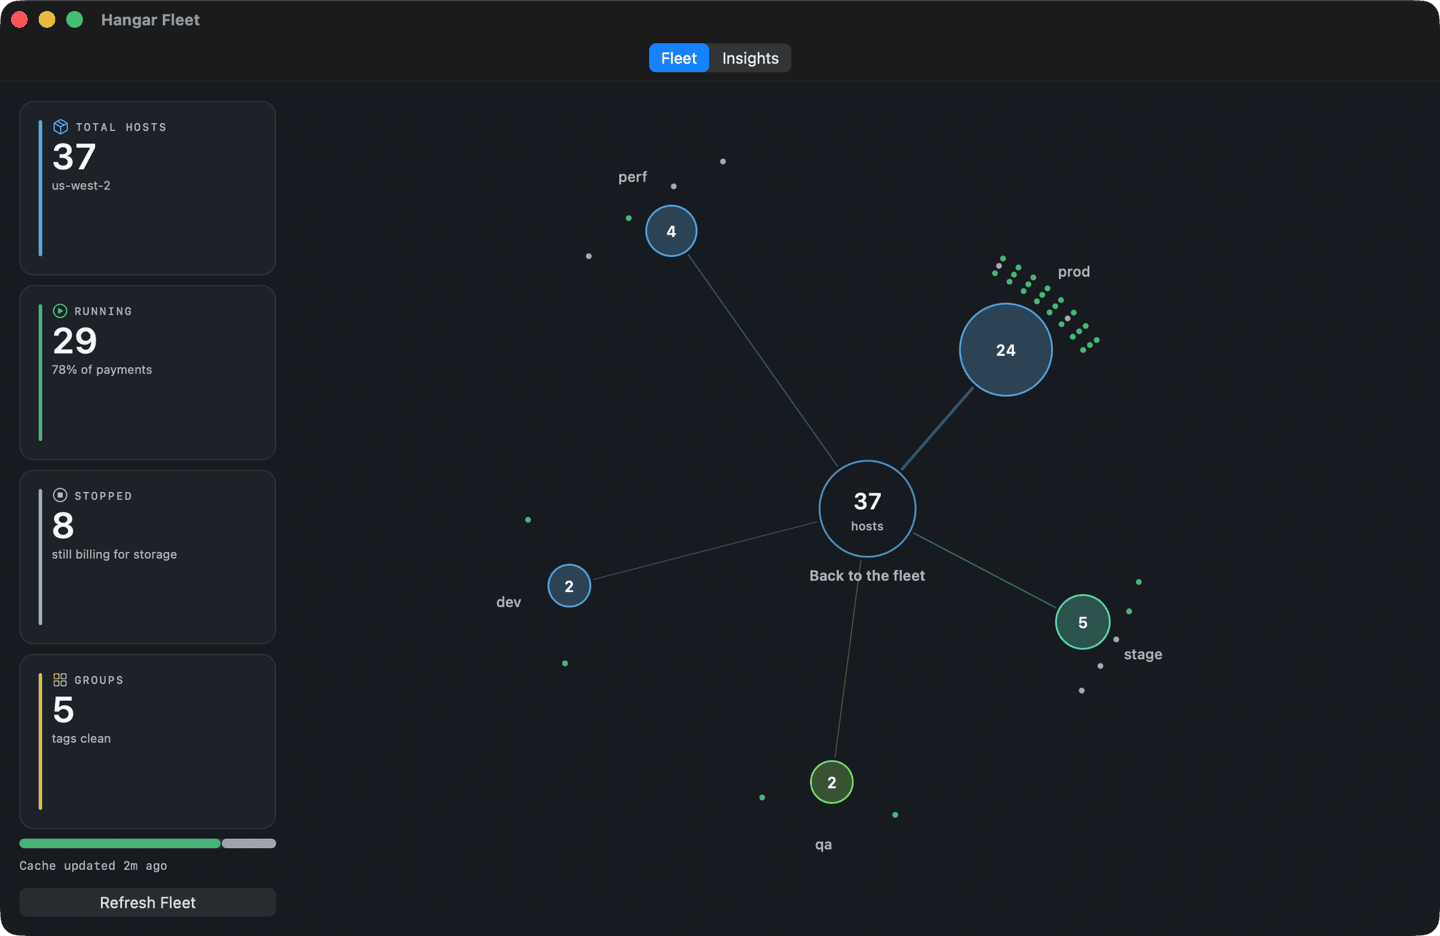
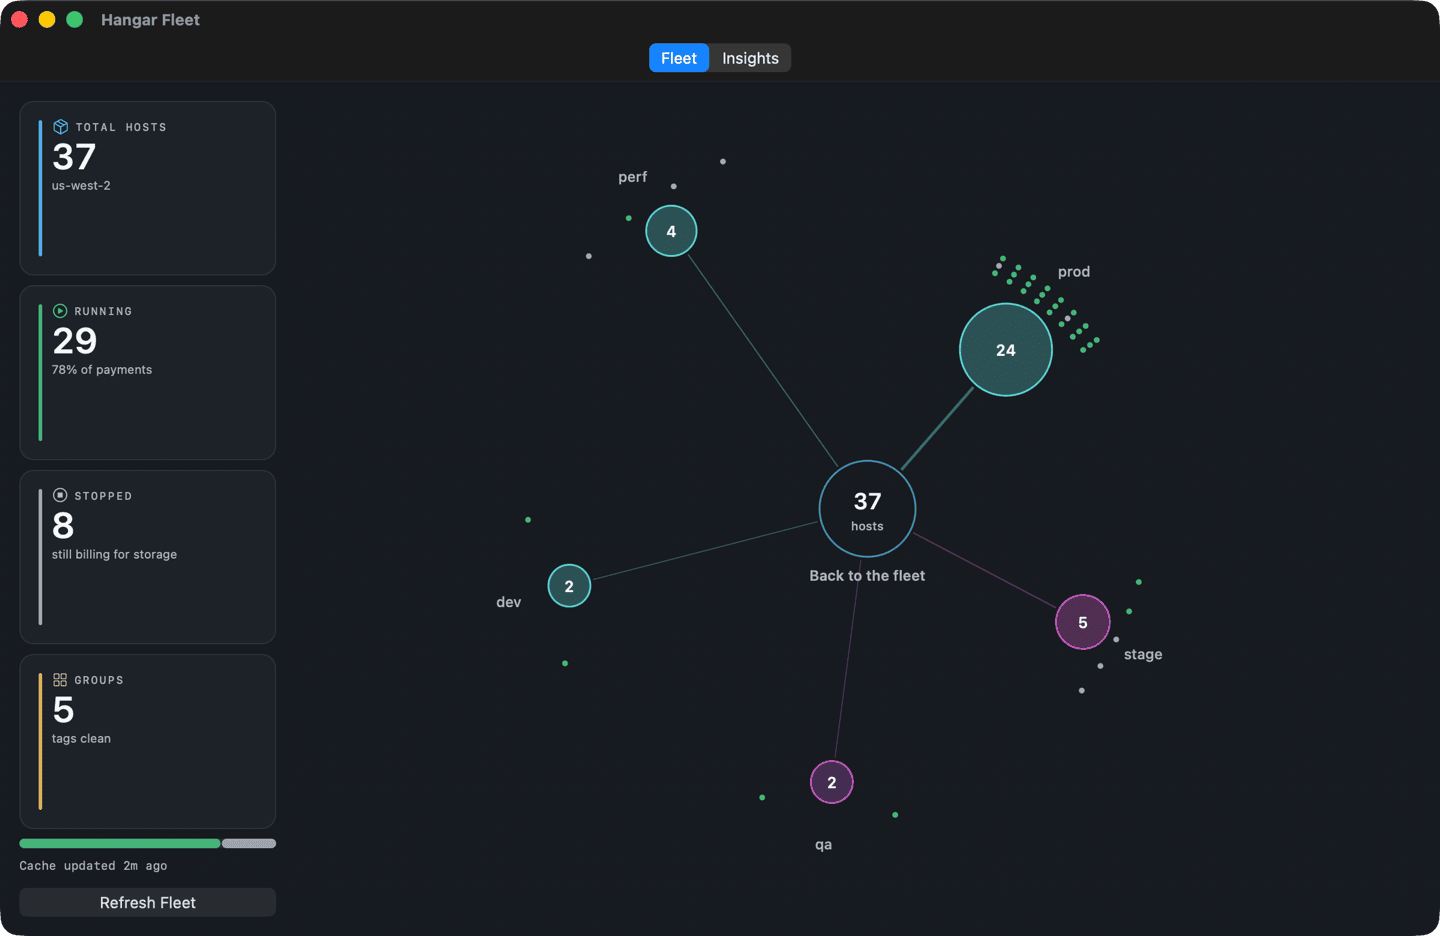
Reshoot the dashboard, and write down what changed under it
New captures for the colour arc, the led rows and the scoped sidebar, plus the
keyboard in the README and the shortcut table. 0021's spec now covers the arc,
the keys, and the four led rows.

diff --git a/site/index.html b/site/index.html
@@ -386,7 +386,8 @@ ubuntu    <span class="ok">authenticated</span></div>
                     qa, dev and perf stepping outward. The hub now reads Back to the
                     fleet.">
           <figcaption>Click a product for its environments. Production sits nearest the
-            hub and each tier steps outward; the hub is the way back.</figcaption>
+            hub and each tier steps outward; the hub is the way back. Arrows and
+            <kbd>Return</kbd> do the same job without a mouse.</figcaption>
         </figure>
 
         <figure class="shot shot-xl">
@@ -397,7 +398,7 @@ ubuntu    <span class="ok">authenticated</span></div>
                     grey and labelled api-1 stopped and api-6 stopped.">
           <figcaption>Click an environment for its hosts, each circle sized by its
             instance type with the size written inside it. A host that is not running
-            says so.</figcaption>
+            says so in words, not only in its colour.</figcaption>
         </figure>
 
         <figure class="shot shot-xl">

diff --git a/intent/0021-a-dashboard-you-can-navigate/spec.md b/intent/0021-a-dashboard-you-can-navigate/spec.md
@@ -47,10 +47,18 @@ The cluster shows exactly one level, chosen by the focus.
    `InstanceType.sizeWeight`, with the short size drawn inside it: `8xl`, `lg`,
    `md`. Colour is state. The label under each circle is the host's leaf name.
 
-Colour follows what the circle is: a group takes its product's category hue, a
-host takes its state, and the particles beside a group take theirs. None of it is
-load bearing. The count is inside every group circle, the name is on it or one
-hover away, and the panels say the same things in words.
+Colour follows what the circle is: a group takes its category hue, a host takes
+its state, and the particles beside a group take theirs. None of it is load
+bearing. The count is inside every group circle, a host that is not running says
+so in its own label, and the panels say the same things in words.
+
+**Categories and state do not share the wheel.** `CategoryHue` confines every
+group colour to the arc from 178 to 330 degrees, teal through blue and violet to
+magenta, in ten steps. Red, amber and green belong to terminated, pending and
+running, with a guard band either side, and a product circle drawn in the
+terminated red reads as a fleet on fire rather than as a category. The arc and
+the reserved bands are both in the core, and a test asserts that no slot in the
+arc lands in a reserved band, rather than asserting the ten colours themselves.
 
 `sizeWeight` is derived from the size suffix alone, which is all
 `DescribeInstances` gives without a second API: `large` is 4, an `n`xlarge is
@@ -61,10 +69,12 @@ sits at 3 so an unfamiliar family neither dominates the picture nor vanishes.
 
 Three ways, all the same operation, so there is one implementation:
 
-- **The hub.** Clicking the circle in the middle steps out one level. Its label
-  says where that is: `payments · prod · back`, or the region at the fleet.
-- **The hub as an accessibility button**, titled "Back to payments · prod", so
-  the picture is navigable without a mouse and testable without clicking pixels.
+- **The hub.** Clicking the circle in the middle steps out one level, and it is
+  labelled with where that is: "Back to payments · prod", or the region at the
+  fleet, where there is nothing to step out to.
+- **The hub as an accessibility button**, with the same title, from the same
+  function, so what is drawn and what is spoken cannot drift apart. It also makes
+  the drill testable by pressing elements rather than by clicking pixels.
 - **A button at the top of the Insights tab**, present whenever the focus is not
   the whole fleet, titled the same way. The Insights tab does not show the hub,
   and a screen with no exit on it is a trap. This is the fix for the question in
@@ -73,6 +83,19 @@ Three ways, all the same operation, so there is one implementation:
 Refreshing while drilled keeps the focus, unless what was open is no longer in
 the fleet, in which case the view falls back to the whole fleet rather than
 showing an empty ring.
+
+## Without a mouse
+
+The circles were reachable by mouse and, through the accessibility tree, by
+VoiceOver. A sighted keyboard user had neither. The view is now a first
+responder: <kbd>←</kbd> and <kbd>→</kbd> move around the ring in the order the
+circles sit in, <kbd>Return</kbd> opens the selected one, and <kbd>esc</kbd>
+steps out, which is the same move the hub makes. Nothing is selected until the
+first arrow, because a focus ring drawn before anyone has pressed a key is noise,
+and the ring is drawn outside the circle so focus is not just a brighter fill.
+
+Clicking a circle also takes the keyboard, so the arrows carry on from where the
+mouse left off rather than from wherever they were last.
 
 ## The window
 
@@ -103,6 +126,12 @@ one you need is always the one a summary dropped.
 Each field is shown only when the response carried it. Nothing is inferred and
 nothing is fetched.
 
+Four of those rows are **led**: state, instance type, private address and the ssh
+alias. They carry the label's weight and the foreground colour, and the rest of
+the column reads as reference. Eighteen rows at one weight and one colour is a
+list to be searched rather than read, and the rows someone opened a host to get
+should not sit at the same level as the root device type.
+
 ## The notice card
 
 A notice is sized from its text column plus its padding, both constants, rather
@@ -117,7 +146,8 @@ column is at most 300 points and at least 210, the padding is 26 horizontal and
 leaving one level at a time down to the floor, that the levels come from the
 configured keys rather than the defaults, and that `backDestination` names the
 right place at every depth. `InstanceTypeTests` covers `sizeWeight` and
-`shortSize` including a malformed type string.
+`shortSize` including a malformed type string. `CategoryHueTests` covers the arc,
+and asserts that no slot in it lands on a colour state owns.
 
 The window itself is proven by driving it: every circle and the hub are
 accessibility buttons, so the drill is exercised by pressing elements rather

diff --git a/README.md b/README.md
@@ -188,6 +188,9 @@ tag keys in `group_by`. One click goes in. The hub in the middle goes back out
 and is labelled with where back is; on the Insights tab, where the hub is not on
 screen, the same step out sits at the top of the column as a button.
 
+It works without a mouse. <kbd>←</kbd> <kbd>→</kbd> move around the ring,
+<kbd>Return</kbd> opens what is selected, and <kbd>esc</kbd> steps back out.
+
 1. **Products.** A circle per product around the EC2 hub, area tracking the host
    count, so a group twice the size looks twice the size.
 2. **Environments.** Production sits nearest the hub and each tier steps outward,
@@ -196,6 +199,10 @@ screen, the same step out sits at the top of the column as a button.
 3. **Hosts.** One circle per instance, **sized by its instance type** with the
    short size written inside it, `8xl`, `2xl`, `lg`. Colour is state, and a host
    that is not running says so in its label rather than relying on the colour.
+
+Product and environment circles are coloured from a band of the wheel running
+teal to magenta. Red, amber and green are reserved for instance state, so a
+product is never drawn in the colour that means terminated.
 
 <div align="center">
 
@@ -497,6 +504,10 @@ survive it.
 | <kbd>⌘</kbd><kbd>R</kbd> | refresh the fleet |
 | <kbd>↑</kbd> <kbd>↓</kbd> | move selection |
 | <kbd>⌘</kbd>-click | edit a host's ssh user or key |
+| <kbd>⌘</kbd><kbd>D</kbd> | open the fleet dashboard |
+| <kbd>←</kbd> <kbd>→</kbd> | in the dashboard, move around the ring |
+| <kbd>Return</kbd> | in the dashboard, open the selected circle |
+| <kbd>esc</kbd> | in the dashboard, step back out a level |
 | <kbd>esc</kbd> / <kbd>⌘</kbd><kbd>Q</kbd> | close the panel, leaving Hangar running |
 
 ## Architecture
